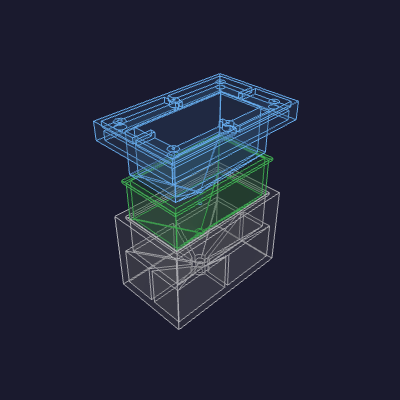
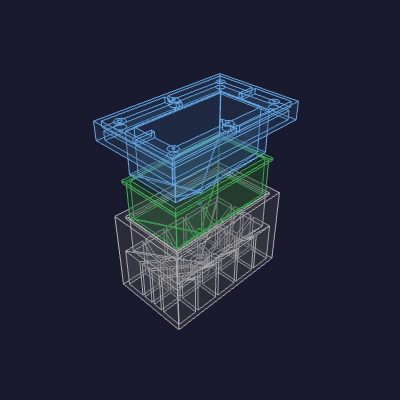
lite-bom: add purchased M3x10 cross-pin screws + zip ties
Both now ON-ORDER: BNUOK M3x10 black SHCS (B0DJQGGDP2, 4 for the
enclosure corner cross-pins) and HS 6" zip ties (B0DR8KSVQD, cable
management). Closes the two audit-flagged gaps that needed real parts.

diff --git a/pie-in-the-sky/lite/printed-parts/funnel-mold/funnel_mold.py b/pie-in-the-sky/lite/printed-parts/funnel-mold/funnel_mold.py
@@ -50,8 +50,9 @@ vent_id = 2.5         # vent holes through the plate, over the brim ring
 skin_wall = 5.0       # outer registration skin kept around the cavity block
 bowl_wall = 6.0       # forming wall kept around the funnel — silicone containment
                       # and a gas-tight PETG backing for the vacuum-degas pour
-rib_wall = 5.0        # cross ribs bracing the skin to the forming wall
-base_foot = 4.0       # printing-base slab left under the relieved cavity flanks
+rib_wall = 4.0        # ribs bracing the skin to the forming wall
+rib_pitch = 30.0      # target spacing of the relief rib lattice — short enough that
+                      # the steep deep-Y forming wall bridges between ribs, no support
 plate_relief = 4.0    # solid kept under the plate's brim face when its top is relieved
 boss_wall = 4.0       # solid kept around each plate through-hole when relieved
 
@@ -77,6 +78,19 @@ def _loft_rc(w, d, cx0, cy0, z0, r1, cx1, cy1, z1):
         .workplane(offset=z1 - z0).center(cx1 - cx0, cy1 - cy0).circle(r1)
         .loft(combine=True).val()
     )
+
+
+def _rib_lattice(block_w, block_d, z0, z1, cx, cy, t, pitch):
+    """A grid of thin vertical ribs spanning z[z0,z1] over the block footprint.
+    Kept out of the relief so the steep forming wall lands on a rib every `pitch`
+    and bridges between them; off the forming face, the funnel cut removes them."""
+    nx, ny = max(1, round(block_w / pitch)), max(1, round(block_d / pitch))
+    ribs = _box(t, block_d, z0, z1, cx, cy)
+    for i in range(nx + 1):
+        ribs = ribs.fuse(_box(t, block_d, z0, z1, cx - block_w / 2.0 + i * block_w / nx, cy))
+    for j in range(ny + 1):
+        ribs = ribs.fuse(_box(block_w, t, z0, z1, cx, cy - block_d / 2.0 + j * block_d / ny))
+    return ribs
 
 
 def _grown_funnel(m, g):
@@ -116,16 +130,14 @@ def build():
     )
 
     # Relieve the dead solid: keep a skin_wall registration shell, a bowl_wall of
-    # PETG around the funnel, a base_foot printing slab, a mold_base spout boss
-    # carrying the pin register, and a bracing cross of ribs — hollow the rest.
-    # The relief opens up through the top rim, so it prints with no internal
-    # support, and stops bowl_wall short of the funnel: it never reaches the
-    # forming face.
+    # PETG around the funnel, a mold_base spout boss carrying the pin register, and
+    # a rib lattice — hollow the rest. The relief opens down to the bed (no sealed
+    # void) and stops bowl_wall short of the funnel, so it never reaches the
+    # forming face; the lattice carries the steep deep-Y wall on short bridges.
     relief = _box(block_w - 2.0 * skin_wall, block_d - 2.0 * skin_wall,
-                  floor_z + base_foot, top_z + 1.0, cx, cy).cut(_grown_funnel(m, bowl_wall))
+                  floor_z, top_z + 1.0, cx, cy).cut(_grown_funnel(m, bowl_wall))
     relief = relief.cut(_cyl(m["spout_or"] + bowl_wall, end_z, floor_z, ncx, cy))
-    relief = relief.cut(_box(rib_wall, block_d, floor_z + base_foot, top_z, cx, cy))
-    relief = relief.cut(_box(block_w, rib_wall, floor_z + base_foot, top_z, cx, cy))
+    relief = relief.cut(_rib_lattice(block_w, block_d, floor_z, top_z, cx, cy, rib_wall, rib_pitch))
     cavity = cavity.cut(relief)
 
     # CORE: the bore is the plug; extend the spout pin (lead-nosed so it

diff --git a/pie-in-the-sky/lite/lite-bom.md b/pie-in-the-sky/lite/lite-bom.md
@@ -63,12 +63,14 @@
 | Wiring | BNTECHGO 18 AWG silicone wire, red 25 ft + black 25 ft | ~6 ft | $0.30/ft | [B07HGTKQ89](https://www.amazon.com/dp/B07HGTKQ89) | 12 V DC trunk + branches — PSU → DC block → pumps / displays (red + / black −). 150-strand silicone, 600 V. $14.99/50 ft; ON-ORDER ([purchases.md](/hardware/ledger/purchases.md) §9). |
 | Wiring | Keszoox JST-XH pre-crimped pigtails, 50 cm × 22 AWG (20 wires/pk) | 1 pk | $11.63 | [B0F8HMQRRN](https://www.amazon.com/dp/B0F8HMQRRN) | Cabinet-spanning pre-crimped female XH pigtails — the ULN2803A → 12-solenoid fan-out across to the manifold. ~1 pk/unit; same part as the Kitchen build (bom.md §11). ACQUIRED ([purchases.md](/hardware/ledger/purchases.md)). |
 | Wiring | CQRobot JST-XH pre-crimped bonded ribbon, 15 cm × 12-cond (8 ribbons/pk) | 2 | $1.98 | [B0F6C7X5CR](https://www.amazon.com/dp/B0F6C7X5CR) | Short-hop bonded ribbon for the on-tray module-to-module links (MCP23017 ↔ ULN inputs, etc.). 2 of 8; same part as the Kitchen build (bom.md §11). ACQUIRED. |
+| Wiring | HS 6" black zip ties, nylon PA66 (100 pc) | ~12 | $0.064 | [B0DR8KSVQD](https://www.amazon.com/dp/B0DR8KSVQD) | Harness + tube-bundle cable management. ~12 of the 100-pack per build; $6.42/100. ON-ORDER ([purchases.md](/hardware/ledger/purchases.md) §9). |
 | Fasteners | ruthex M3 heat-set inserts, short, brass (100 pc) | 30 | $0.107 | [B0D39W228K](https://www.amazon.com/dp/B0D39W228K) | Power tray (5) + faucet plate (3) + logic tray (18 M3) + enclosure cross-pins (4) bosses. Of 100; ACQUIRED. |
 | Fasteners | BNUOK M3×12 mm SHCS, 12.9 alloy, black oxide (120 pc) | 26 | $0.071 | [B0DJQGVK8S](https://www.amazon.com/dp/B0DJQGVK8S) | One per M3 boss (power tray + faucet plate + logic tray). Black-oxide socket-head cap screws; same finish/head as the M3×25 foam-cap screws. Of 120; ACQUIRED. |
+| Fasteners | BNUOK M3×10 mm SHCS, 12.9 alloy, black oxide (120 pc) | 4 | $0.071 | [B0DJQGGDP2](https://www.amazon.com/dp/B0DJQGGDP2) | The 4 enclosure corner cross-pins — M3×10 into ruthex M3 per [enclosure/](/pie-in-the-sky/lite/enclosure/). $8.57/120. ON-ORDER ([purchases.md](/hardware/ledger/purchases.md) §11). |
 
 ## Per-unit cost (estimate)
 
-Estimated delivered parts cost per Lite unit: **[$588.14](LITE_TOTAL)**. Excludes external/user-supplied items (CO2 tank, flavor concentrate) and shared-stock consumables.
+Estimated delivered parts cost per Lite unit: **[$589.19](LITE_TOTAL)**. Excludes external/user-supplied items (CO2 tank, flavor concentrate) and shared-stock consumables.
 
 ## Clear-PVC length — ~13 ft/unit (estimate)
 
